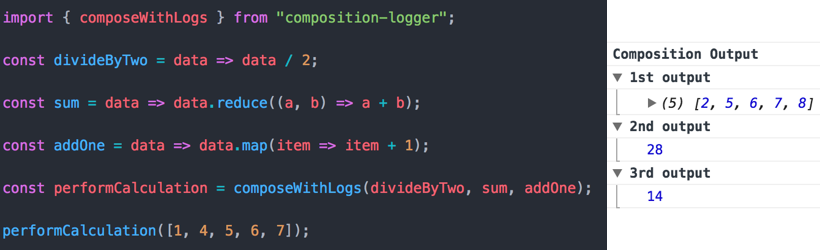
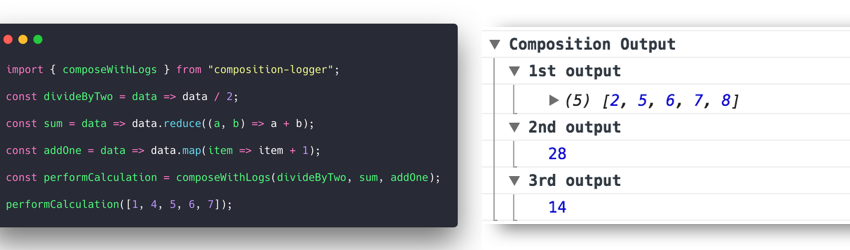
Updating readme

diff --git a/README.md b/README.md
@@ -32,12 +32,4 @@ Composition-logger supports two ways of composing functions, which are [pipe](ht
 
 #### Compose
 
-<div align="left">
-  <img src="media/carbon.png" width="700" />
-</div>
-            
-##### Composition-logger output
-
-<div align="left">
-  <img src="media/compositionOutput.png" width="700" />
-</div>
+![composition-logger-pipe](media/composeExample.png)
